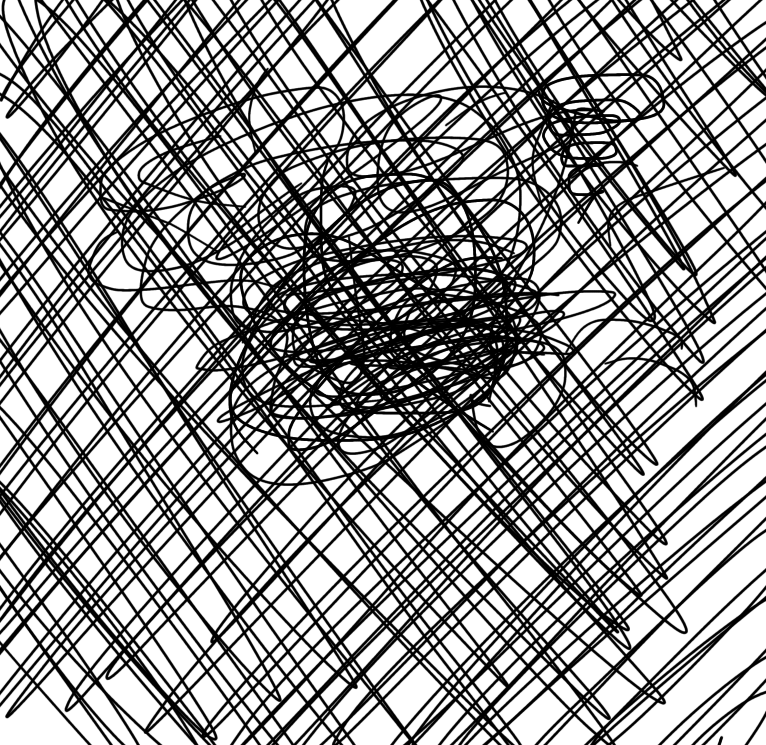
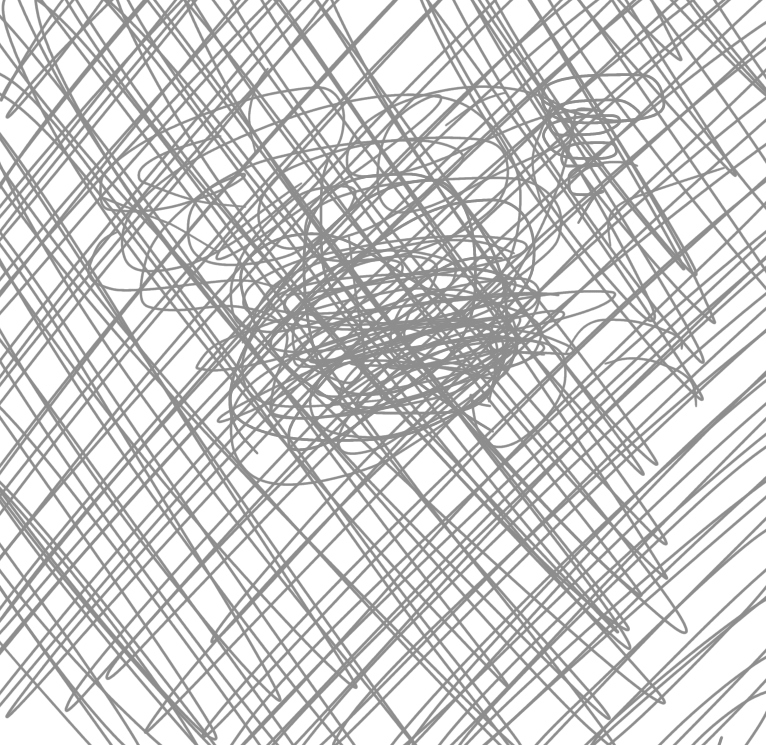
職業別攻撃音を8職業分導入、ストレス落書きが背景色で隠れる不具合を修正、薙ぎ払い威力アップと槍士耐久力調整
Claude-Session: https://claude.ai/code/session_013LmBsLqF5MNHWQrmKExavi

diff --git a/index.html b/index.html
@@ -76,7 +76,7 @@
   .stat-row { display: flex; justify-content: space-between; padding: 0.4rem 0; border-bottom: 1px solid var(--border); font-size: 0.85rem; }
   .stat-row span:first-child { color: var(--text-muted); }
   .mpbar-fill { height: 100%; background: #4a7fd1; transition: width 0.4s ease; }
-  .roster-row img { width: 44px; height: 44px; object-fit: cover; object-position: top; border-radius: 6px; background: var(--surface-2); }
+  .roster-row img:not(.stress-overlay) { width: 44px; height: 44px; object-fit: cover; object-position: top; border-radius: 6px; background: var(--surface-2); }
   .roster-info { flex: 1; }
   /* ストレスの見た目表現: バーではなくキャラアイコンに落書き風の透過イラストを段階的に重ねる */
   .stress-wrap { position: relative; }
@@ -120,7 +120,7 @@
   .party-member { flex: 0 1 110px; max-width: 110px; text-align: center; position: relative; border-radius: 8px; padding: 0.25rem; border: 2px solid transparent; transition: border-color 0.2s, background 0.2s; transform: translateZ(0); }
   .party-member.acting { border-color: var(--accent); background: rgba(201,162,74,0.18); box-shadow: 0 0 10px rgba(201,162,74,0.5); }
   .party-member.targeted { border-color: var(--danger); box-shadow: 0 0 10px rgba(209,80,63,0.6); }
-  .party-member img { width: 100%; aspect-ratio: 1/1; object-fit: cover; object-position: top; border-radius: 6px; background: var(--surface-2); }
+  .party-member img:not(.stress-overlay) { width: 100%; aspect-ratio: 1/1; object-fit: cover; object-position: top; border-radius: 6px; background: var(--surface-2); }
   .party-member.dead img { filter: grayscale(1) brightness(0.4); }
   .hpbar-track { background: rgba(0,0,0,0.5); border-radius: 999px; height: 6px; overflow: hidden; border: 1px solid var(--border); margin-top: 0.2rem; }
   .hpbar-fill { height: 100%; background: var(--hp); transition: width 0.4s ease; }
@@ -537,11 +537,17 @@ function playBgm(key) {
 }
 
 const sfxCache = {};
+const SFX_EXT = { attack_hunter: "mp3", attack_samurai: "mp3", attack_caster: "mp3", attack_gunner: "mp3", attack_spearman: "mp3", attack_naginata: "mp3", attack_ninja: "mp3" };
 function playSfx(name) {
   if (muted) return;
-  if (!sfxCache[name]) sfxCache[name] = new Audio(`assets/sfx/${name}.ogg`);
+  if (!sfxCache[name]) sfxCache[name] = new Audio(`assets/sfx/${name}.${SFX_EXT[name] || "ogg"}`);
   const node = sfxCache[name].cloneNode(true);
   node.play().catch(() => {});
+}
+// 職業ごとの攻撃音(狩人/侍/砲術士は専用、僧侶・陰陽師は共用。それ以外は既存の汎用attack音のまま)
+const CLASS_ATTACK_SFX = { hunter: "attack_hunter", samurai: "attack_samurai", priest: "attack_caster", onmyoji: "attack_caster", gunner: "attack_gunner", spearman: "attack_spearman", naginata: "attack_naginata", ninja: "attack_ninja" };
+function attackSfxFor(classId) {
+  return CLASS_ATTACK_SFX[classId] || "attack";
 }
 
 document.getElementById("muteBtn").onclick = () => {
@@ -1141,8 +1147,8 @@ function popupOn(targetId, text, cls) {
   const entity = findVfxEntity(targetId);
   if (!entity) return;
   if (cls === "dmg") entity.__shakeUntil = Date.now() + 400;
-  // 味方が被弾した際の数値表示だけ、表示対象がずれる不具合の暫定対応として一旦止める(揺れ・敵側の表示は継続)
-  if (cls === "dmg" && fieldParty.includes(entity)) return;
+  // ダメージ数値の表示は、表示対象がずれる不具合の暫定対応として一旦全面的に止める(揺れは継続)
+  if (cls === "dmg") return;
   entity.__popupText = text;
   entity.__popupCls = cls;
   entity.__popupAt = Date.now();
@@ -1350,7 +1356,7 @@ function renderActionButtons(actor) {
   atkBtn.textContent = "攻撃";
   atkBtn.onclick = () => {
     pickSingleEnemyTarget((target) => {
-      playSfx("attack");
+      playSfx(attackSfxFor(actor.classId));
       const dmg = performAttack(actor, target, blog);
       popupOn(target.instanceId, `-${dmg}`, "dmg");
       afterPlayerAction();
@@ -1368,7 +1374,7 @@ function renderActionButtons(actor) {
       if (ability === "heal") { renderAllyTargets(actor, "heal"); return; }
       if (ability === "guard") { playSfx("select"); useAbility(actor, actor, "guard", blog); afterPlayerAction(); return; }
       if (ability === "magicAttackAll" || ability === "physicalAttackAll") {
-        playSfx("attack");
+        playSfx(attackSfxFor(actor.classId));
         const targetsList = aliveEnemies();
         const result = useAbility(actor, targetsList, ability, blog);
         if (result && result.dmgs) targetsList.forEach((t, i) => popupOn(t.instanceId, `-${result.dmgs[i]}`, "dmg"));
@@ -1377,7 +1383,7 @@ function renderActionButtons(actor) {
       }
       // 単体系(会心の一撃/奇襲/呪符ノ術など)
       pickSingleEnemyTarget((target) => {
-        playSfx("attack");
+        playSfx(attackSfxFor(actor.classId));
         const result = useAbility(actor, target, ability, blog);
         if (result && result.dmg != null) popupOn(target.instanceId, `-${result.dmg}`, "dmg");
         afterPlayerAction();

diff --git a/engine.js b/engine.js
@@ -305,8 +305,10 @@ function useAbility(actor, target, abilityType, log) {
     return { dmgs: results };
   }
   if (abilityType === "physicalAttackAll") {
+    // 旧0.55倍だと素の攻撃(atk倍率1.0)に対する目減りが大きく、魔法版(rollMagicAttackの1.8倍×0.6=実質1.08倍)より
+    // 大幅に見劣りしていたため、0.85倍に引き上げて薙ぎ払いが単体攻撃と張り合える威力になるよう調整
     const results = target.filter((t) => t.hp > 0).map((t) => {
-      const dmg = Math.max(1, Math.round(rollBasicAttack(effectiveStat(actor, "atk"), t.def) * 0.55));
+      const dmg = Math.max(1, Math.round(rollBasicAttack(effectiveStat(actor, "atk"), t.def) * 0.85));
       applyDamageToTarget(t, dmg, log, actor.label);
       return dmg;
     });

diff --git a/data.js b/data.js
@@ -10,7 +10,7 @@
 const CLASSES = {
   samurai: { ja: "侍", image: "assets/class_samurai.png", hp: 34, atk: 13, def: 8, spd: 11, mag: 0, abilities: ["critAttack"] },
   ninja: { ja: "忍", image: "assets/class_ninja.png", hp: 29, atk: 13, def: 7, spd: 16, mag: 0, abilities: ["powerAttack"] },
-  spearman: { ja: "槍士", image: "assets/class_spearman.png", hp: 42, atk: 11, def: 13, spd: 7, mag: 0, abilities: ["guard"] },
+  spearman: { ja: "槍士", image: "assets/class_spearman.png", hp: 38, atk: 11, def: 10, spd: 7, mag: 0, abilities: ["guard"] },
   naginata: { ja: "薙刀士", image: "assets/class_naginata.png", hp: 32, atk: 12, def: 8, spd: 9, mag: 0, abilities: ["physicalAttackAll"] },
   hunter: { ja: "狩人", image: "assets/class_hunter.png", hp: 26, atk: 11, def: 5, spd: 12, mag: 0, abilities: ["preciseShot"] },
   gunner: { ja: "砲術士", image: "assets/class_gunner.png", hp: 28, atk: 16, def: 6, spd: 4, mag: 0, abilities: ["cannonShot"] },